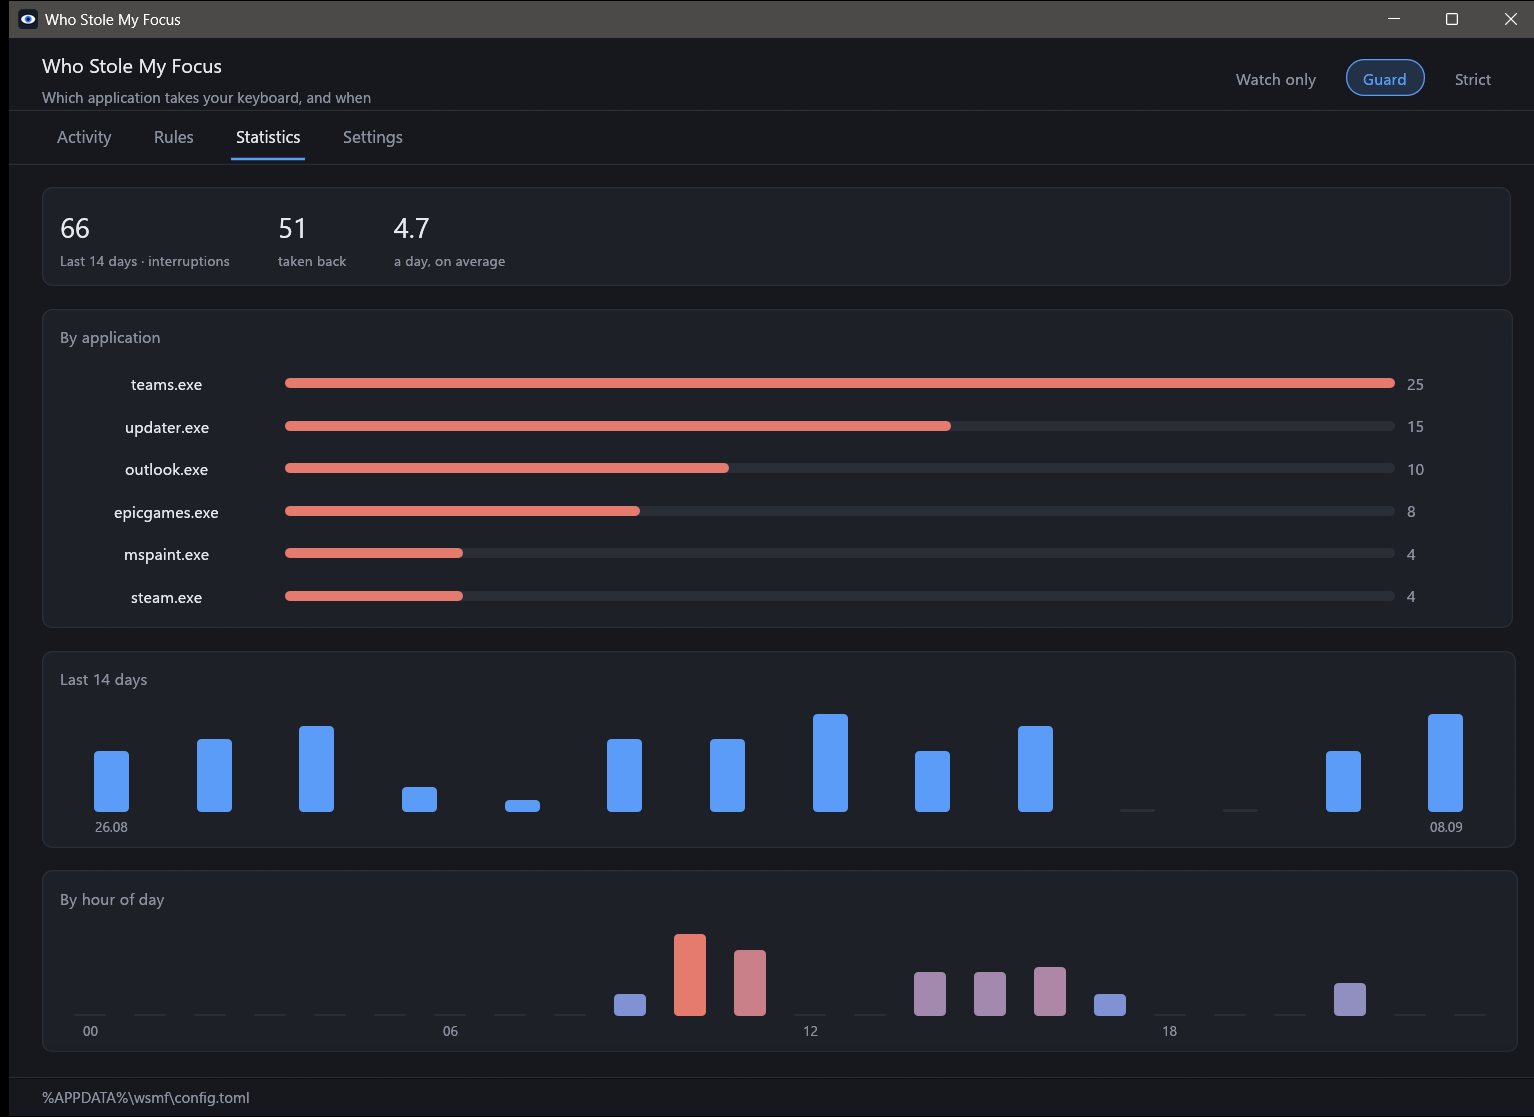
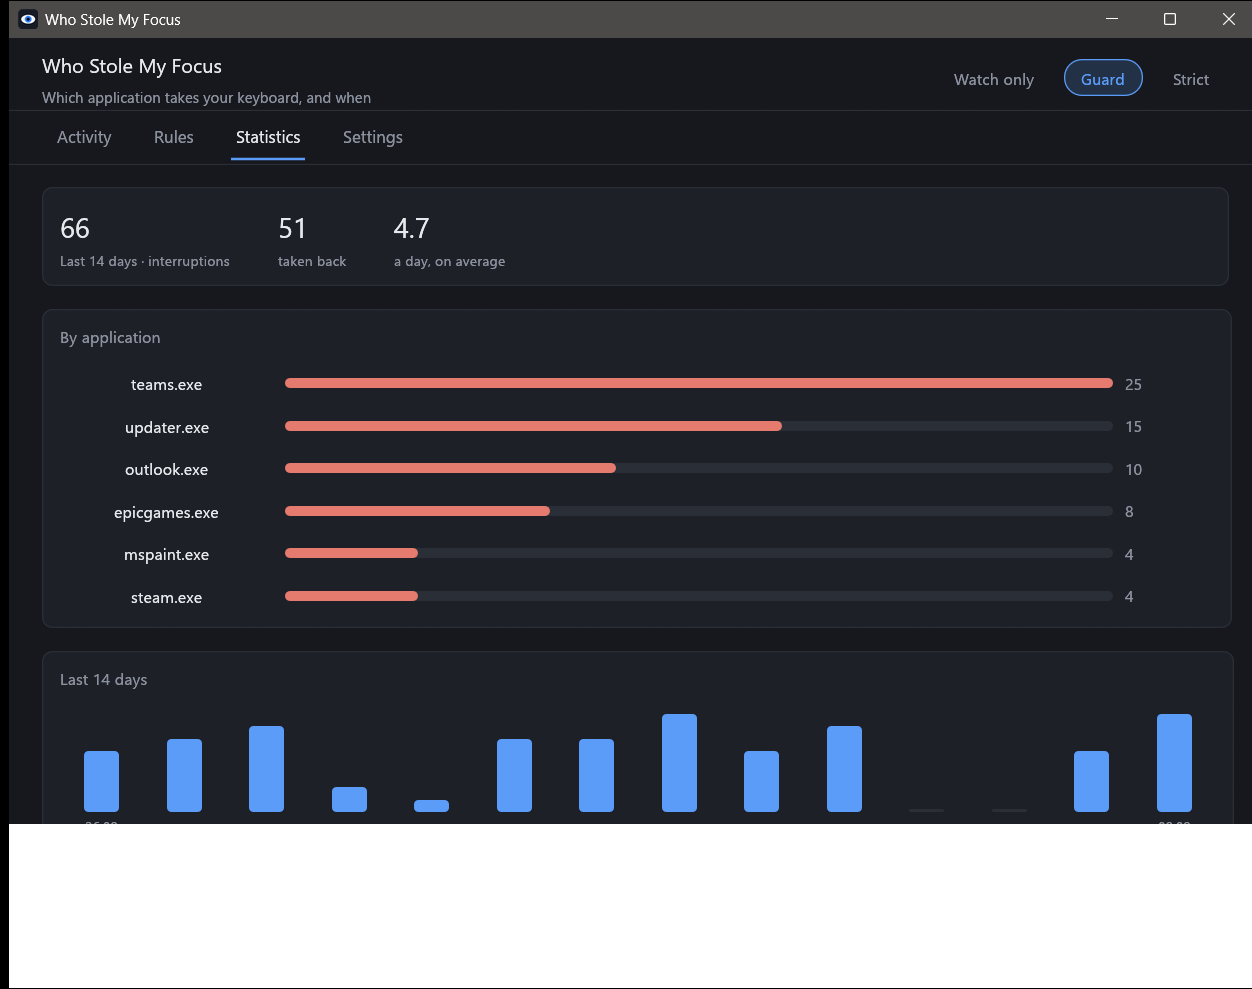
Take the screenshots without touching the screen
The tool used to bring each window to the front and copy pixels off the display,
which interrupted whoever was at the keyboard and let anything in front of the
window end up in the image. Now the panel opens at the size the shot needs
(--size), the window is moved off screen without being activated, and it draws
itself through PrintWindow. Nothing comes to the front, and nothing but the
window is in the picture.

Resizing after the fact was the bug behind the black margins in the last set: the
window was captured before it had redrawn at the new size.

diff --git a/src/panel/mod.rs b/src/panel/mod.rs
@@ -239,11 +239,28 @@ fn file_stamp(path: &std::path::Path) -> Option<SystemTime> {
     std::fs::metadata(path).ok()?.modified().ok()
 }
 
+/// `--size 1240x780`, so the screenshot tool can open the window at the size it
+/// wants rather than resizing it afterwards and catching a half drawn frame.
+fn requested_size() -> [f32; 2] {
+    const DEFAULT: [f32; 2] = [980.0, 620.0];
+    let mut args = std::env::args().skip_while(|arg| arg != "--size");
+    let Some(value) = args.nth(1) else {
+        return DEFAULT;
+    };
+    let Some((width, height)) = value.split_once(['x', 'X']) else {
+        return DEFAULT;
+    };
+    match (width.trim().parse(), height.trim().parse()) {
+        (Ok(w), Ok(h)) if (400.0..=4000.0).contains(&w) && (300.0..=4000.0).contains(&h) => [w, h],
+        _ => DEFAULT,
+    }
+}
+
 pub fn run() -> Result<(), eframe::Error> {
     let icon = load_icon();
     let options = eframe::NativeOptions {
         viewport: egui::ViewportBuilder::default()
-            .with_inner_size([980.0, 620.0])
+            .with_inner_size(requested_size())
             .with_min_inner_size([720.0, 480.0])
             .with_title("Who Stole My Focus")
             .with_icon(icon),
